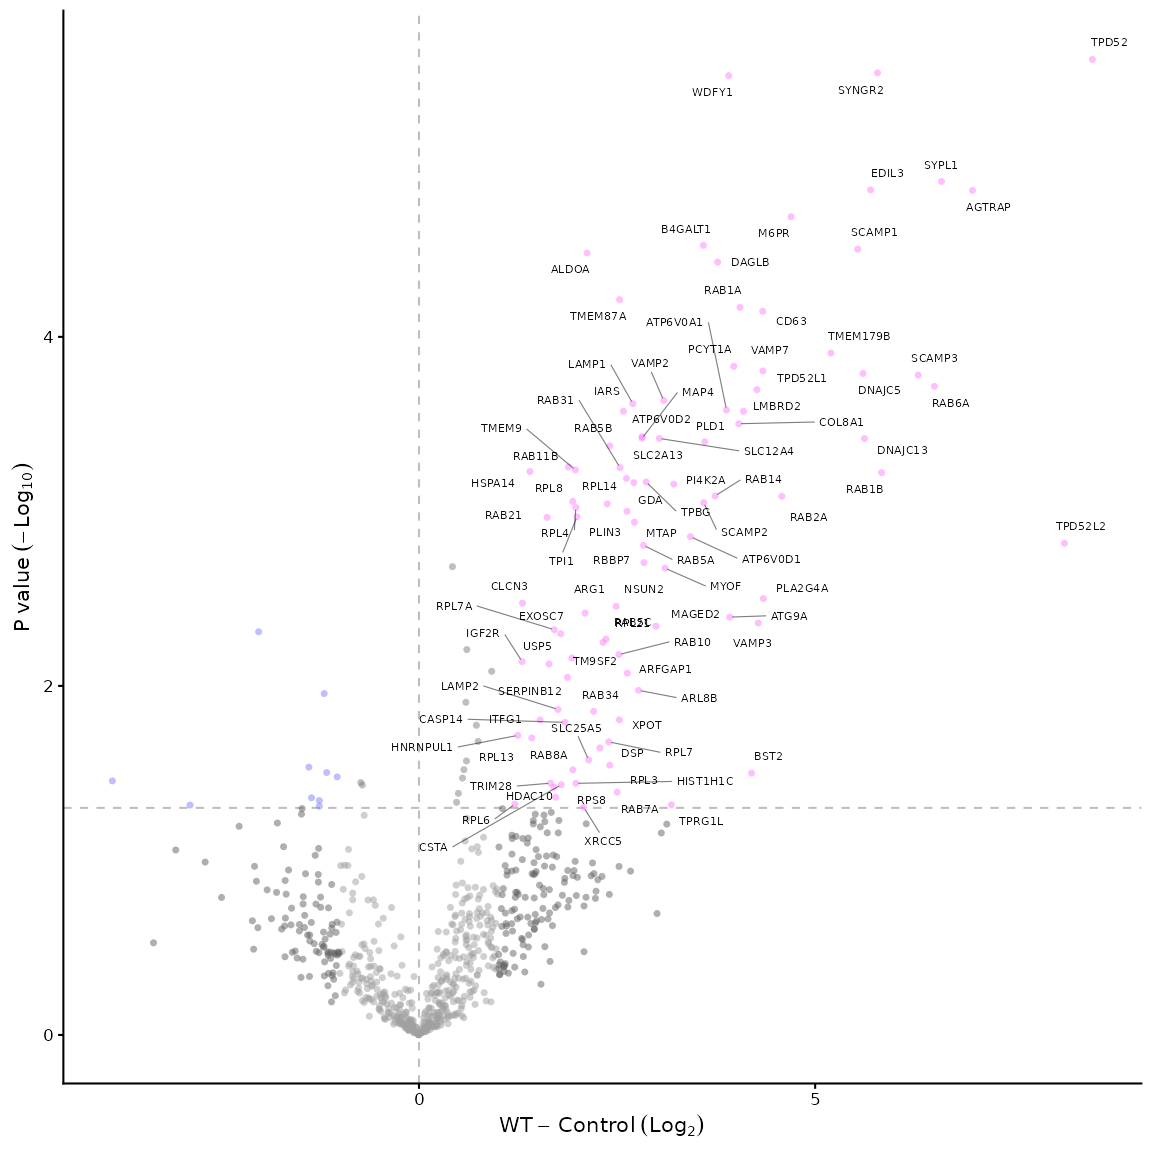
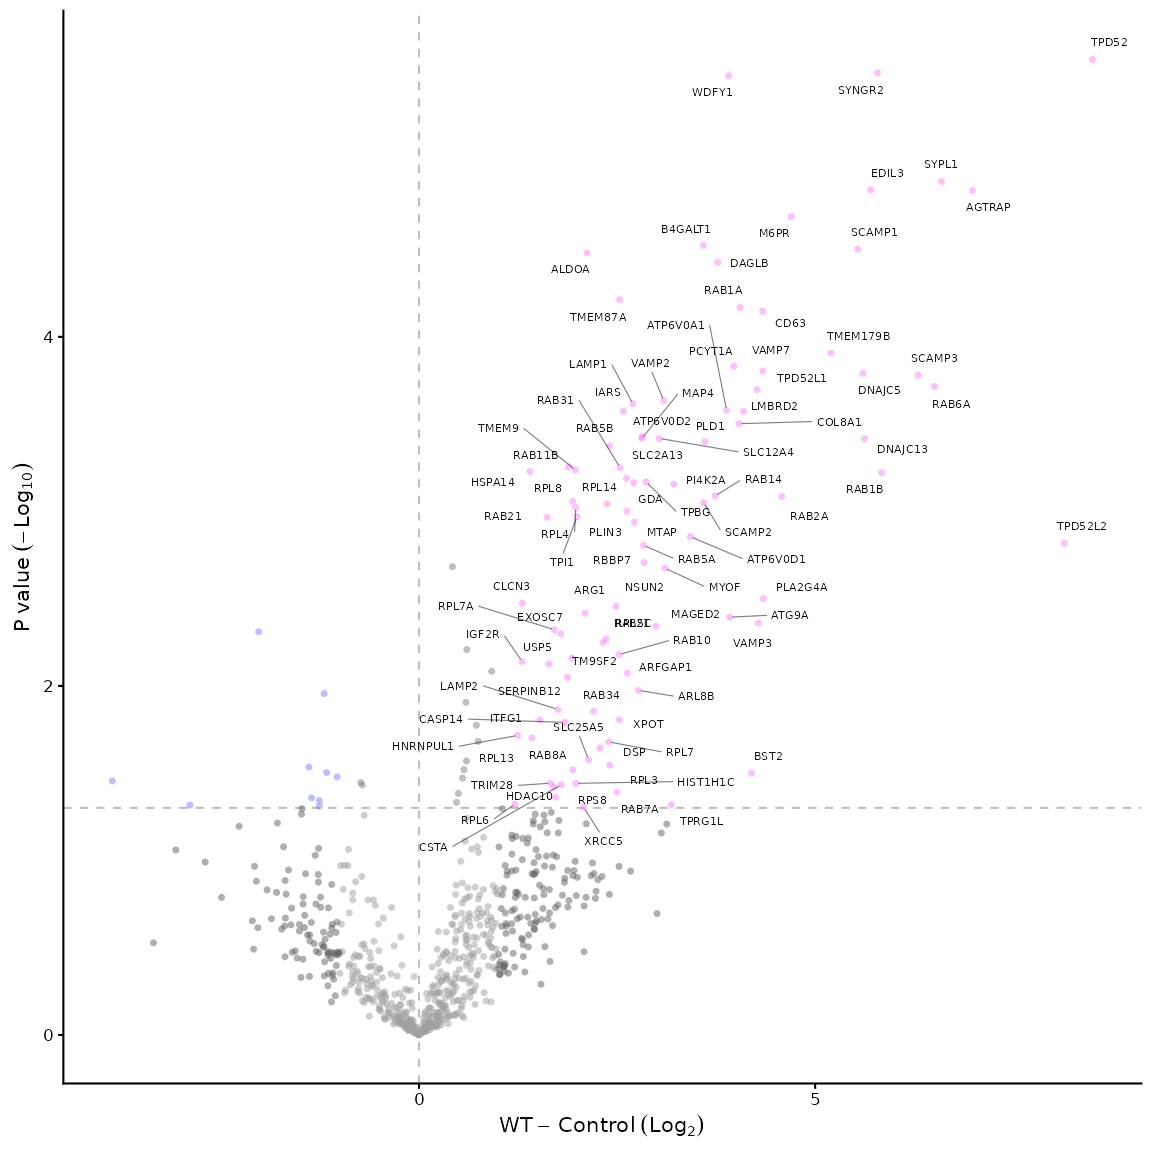
Deploying to gh-pages from @ quantixed/VolcanoPlotR@4a536244f81215732dcfb01f6c31fedfdee1de46 🚀

diff --git a/articles/multiple.html b/articles/multiple.html
@@ -79,11 +79,20 @@ R.</p>
 into its own subdirectory in the <code>Data</code> directory; the
 command will find and load any <code>proteinGroups.txt</code> in the
 <code>Data</code> directory.</p>
-<p>You will be given the option of specifying which group(s) corresponds
-to group1 (right side of the volcano plot) and which group(s)
-corresponds to group2 (left side of the volcano plot). The function will
-then combine the data from all the files and return a single data frame
-that can be used for plotting.</p>
+<p>The output of <code><a href="../reference/load_multiple_maxquant.html">load_multiple_maxquant()</a></code> is a list of data
+frames containing the combined data from all the files.</p>
+<div class="section level2">
+<h2 id="processing-the-data">Processing the data<a class="anchor" aria-label="anchor" href="#processing-the-data"></a>
+</h2>
+<div class="section level3">
+<h3 id="specifiying-groups">Specifiying groups<a class="anchor" aria-label="anchor" href="#specifiying-groups"></a>
+</h3>
+<p>Using <code><a href="../reference/process_multiple_maxquant.html">process_multiple_maxquant()</a></code> with the list of data
+frames, you will be given the option of specifying which group(s)
+corresponds to group1 (right side of the volcano plot) and which
+group(s) corresponds to group2 (left side of the volcano plot). The
+function will then combine the data from all the files and return a
+single data frame that can be used for plotting.</p>
 <p>In a simple example, two MaxQuant files have two groups each, “WT”
 and “Control”. The runs in the both files are called WT.1, WT.2, WT.3,
 Control.1, Control.2, Control.3. The function presents the user with a
@@ -111,13 +120,33 @@ specifying the groups in the function call, that is using
 for the first example and
 <code>load_multiple_maxquant(group1 = c("WT", "wildtype"), group2 = c("Control", "control"))</code>
 for the second example.</p>
+<div class="sourceCode" id="cb1"><pre class="downlit sourceCode r">
+<code class="sourceCode R"><span><span class="kw"><a href="https://rdrr.io/r/base/library.html" class="external-link">library</a></span><span class="op">(</span><span class="va"><a href="https://quantixed.github.io/VolcanoPlotR/">VolcanoPlotR</a></span><span class="op">)</span></span>
+<span><span class="va">my_list</span> <span class="op">&lt;-</span> <span class="fu"><a href="../reference/load_multiple_maxquant.html">load_multiple_maxquant</a></span><span class="op">(</span><span class="op">)</span></span>
+<span><span class="va">df_subset</span> <span class="op">&lt;-</span> <span class="fu"><a href="../reference/process_multiple_maxquant.html">process_multiple_maxquant</a></span><span class="op">(</span>data <span class="op">=</span> <span class="va">my_list</span><span class="op">)</span></span>
+<span><span class="co"># or to bypass the selection step, specify the groups in the function call</span></span>
+<span><span class="va">df_subset</span> <span class="op">&lt;-</span> <span class="fu"><a href="../reference/process_multiple_maxquant.html">process_multiple_maxquant</a></span><span class="op">(</span>data <span class="op">=</span> <span class="va">my_list</span>, group1 <span class="op">=</span> <span class="fu"><a href="https://rdrr.io/r/base/c.html" class="external-link">c</a></span><span class="op">(</span><span class="st">"WT"</span>, <span class="st">"wildtype"</span><span class="op">)</span>, group2 <span class="op">=</span> <span class="fu"><a href="https://rdrr.io/r/base/c.html" class="external-link">c</a></span><span class="op">(</span><span class="st">"Control"</span>, <span class="st">"control"</span><span class="op">)</span><span class="op">)</span></span></code></pre></div>
+<p>There is an additional argument that can be used to use the average
+of the ratios rather than ratio the averages. This is useful if datasets
+have been combined but they have differing intensities. Using
+<code>ratio = TRUE</code> will compare test.1 with control.1, test.2
+with control.2, etc. and then average the ratios. Using
+<code>ratio = FALSE</code> will average the test samples and average the
+control samples and then compare the averages (this is the only option
+in the single file case). The default is <code>ratio = FALSE</code>.</p>
+</div>
+</div>
 <div class="section level2">
-<h2 id="processing-and-plotting">Processing and plotting<a class="anchor" aria-label="anchor" href="#processing-and-plotting"></a>
+<h2 id="plotting">Plotting<a class="anchor" aria-label="anchor" href="#plotting"></a>
 </h2>
 <p>The next steps are the same as if a single MaxQuant file had been
-used.</p>
+used. Use <code><a href="../reference/volcano_plot_maxquant.html">volcano_plot_maxquant()</a></code> or
+<code><a href="../reference/pca_plot_maxquant.html">pca_plot_maxquant()</a></code> or <code>mean_plot_maximum()</code> to
+generate the plots. <code><a href="../reference/process_multiple_maxquant.html">process_multiple_maxquant()</a></code> can be used
+as input to either of these functions.</p>
 </div>
-  </main>
+  </main><aside class="col-md-3"><nav id="toc" aria-label="Table of contents"><h2>On this page</h2>
+    </nav></aside>
 </div>
 
 

diff --git a/articles/multiple.md b/articles/multiple.md
@@ -8,11 +8,22 @@ The best approach is to place each `proteinGroups.txt` into its own
 subdirectory in the `Data` directory; the command will find and load any
 `proteinGroups.txt` in the `Data` directory.
 
-You will be given the option of specifying which group(s) corresponds to
-group1 (right side of the volcano plot) and which group(s) corresponds
-to group2 (left side of the volcano plot). The function will then
-combine the data from all the files and return a single data frame that
-can be used for plotting.
+The output of
+[`load_multiple_maxquant()`](https://quantixed.github.io/VolcanoPlotR/reference/load_multiple_maxquant.md)
+is a list of data frames containing the combined data from all the
+files.
+
+## Processing the data
+
+### Specifiying groups
+
+Using
+[`process_multiple_maxquant()`](https://quantixed.github.io/VolcanoPlotR/reference/process_multiple_maxquant.md)
+with the list of data frames, you will be given the option of specifying
+which group(s) corresponds to group1 (right side of the volcano plot)
+and which group(s) corresponds to group2 (left side of the volcano
+plot). The function will then combine the data from all the files and
+return a single data frame that can be used for plotting.
 
 In a simple example, two MaxQuant files have two groups each, “WT” and
 “Control”. The runs in the both files are called WT.1, WT.2, WT.3,
@@ -45,6 +56,31 @@ first example and
 `load_multiple_maxquant(group1 = c("WT", "wildtype"), group2 = c("Control", "control"))`
 for the second example.
 
-## Processing and plotting
+``` r
+
+library(VolcanoPlotR)
+my_list <- load_multiple_maxquant()
+df_subset <- process_multiple_maxquant(data = my_list)
+# or to bypass the selection step, specify the groups in the function call
+df_subset <- process_multiple_maxquant(data = my_list, group1 = c("WT", "wildtype"), group2 = c("Control", "control"))
+```
+
+There is an additional argument that can be used to use the average of
+the ratios rather than ratio the averages. This is useful if datasets
+have been combined but they have differing intensities. Using
+`ratio = TRUE` will compare test.1 with control.1, test.2 with
+control.2, etc. and then average the ratios. Using `ratio = FALSE` will
+average the test samples and average the control samples and then
+compare the averages (this is the only option in the single file case).
+The default is `ratio = FALSE`.
+
+## Plotting
 
 The next steps are the same as if a single MaxQuant file had been used.
+Use
+[`volcano_plot_maxquant()`](https://quantixed.github.io/VolcanoPlotR/reference/volcano_plot_maxquant.md)
+or
+[`pca_plot_maxquant()`](https://quantixed.github.io/VolcanoPlotR/reference/pca_plot_maxquant.md)
+or `mean_plot_maximum()` to generate the plots.
+[`process_multiple_maxquant()`](https://quantixed.github.io/VolcanoPlotR/reference/process_multiple_maxquant.md)
+can be used as input to either of these functions.